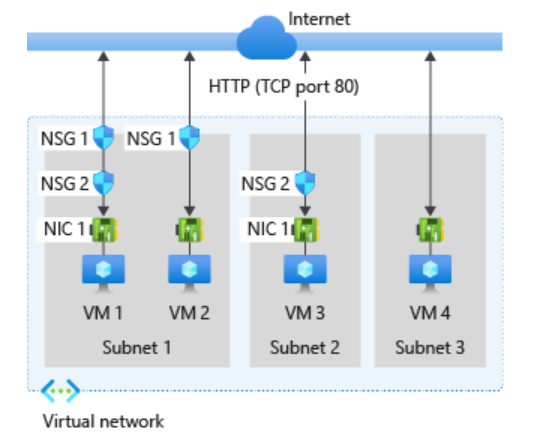
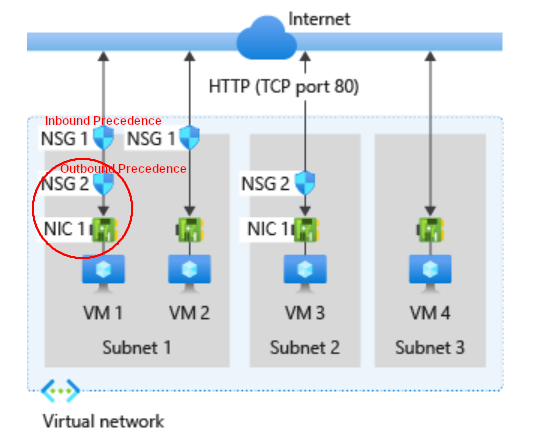
minor change

diff --git a/D338_Cloud_Platform_Solutions_AZ-104/Azure_Administrator_AZ-104.md b/D338_Cloud_Platform_Solutions_AZ-104/Azure_Administrator_AZ-104.md
@@ -692,11 +692,58 @@ az vm open-port --port 80 --resource-group "[sandbox resource group name]" --nam
 
 ## Azure Networks and Network Security Groups
 
-- **vNet**
-  - VPN network. provide logical isolation and protection. IP range once chosen, cannot be changed.
-  - If **no security group** is applied, then **all** traffic is **allowed** by Azure.
-  - Azure blocks SMTP (Email port 25) outbound.
-  - link virtual networks with an on-premises IT infrastructure to create hybrid or cross-premises solution.
+- **Azure IP addresses**
+  - **private IP**: internal communication only. on-prem communication, use VPN Gateway or ExpressRoute.
+  - **public IP**: communicate with resources over the public internet.
+  - **static IP**: does not change. best for DNS records, TLS certs, Firewall rules based on IP range.
+  - **dynamic IP**: changes as needed. typically change when VM/service is stopped and restarted.
+- **Application Security Group**
+  - grouping VMs based on application(function). e.g. web server and database.
+  - layer 3 and 4(IP and port).
+- **Network Interface Card (NIC)**
+  - vNIC. layer 2.
+  - can have network security group applied.
+- **Network Security Group (NSGs)**
+  - enforce and control network traffic rules at the networking level.
+  - software firewall by filtering **inbound and outbound traffic**(subnet or network interface(NIC)) with **allow/deny rules**.
+  - The last rule is always a **Deny All** rule.
+  - can be applied to **subnets** and **NIC**.
+  - **Rules**
+    - default: **deny** all **inbound(except loadBalancer or VNET subnets)**. **allow** all **outbound**.
+    - without NSG, **all** traffic is allowed.
+    - rules can be overridden by **Priority** value.
+      - **priority values**: 100 - 4096. processed from low to high. first rule matches, processing stops. lower numbers are processed first, so have higher priority.
+    - default **intra-subnet** traffic(resources inside same subnet) are **allowed**.
+    - you must define an **allow rule** for both the **subnet and network interface** in the group to ensure traffic can get through.
+    - because a NIC or subnet can each have a security group:
+      - inbound: the subnet(NSG 1) rules will take precedence.
+      - outbound: the NIC(NSG 2) will take precedence.
+      - ![nsg rules](img/nsg.PNG)
+- **Load Balancer**
+  - d
+- **Application Gateway**
+  - creates hybrid cloud: on-prem can communicate with Azure VNET over internet with encrypted traffic. same as site-to-site VPN.
+  - **Azure Local Network Gateway**: the on-prem VPN device to connect to Azure VPN.
+- **ExpressRoute**
+  - connect private on-prem connection with Azure VNET. Dedicated line from connectivity provider. traffic does not traverse public internet. higher security.
+- **Peering**
+  - seamless connection of two or more VNETs. function as single VNET.
+  - managed as separate resources, but communicate as single resource.
+  - Traffic between the virtual networks is kept on the **Microsoft Azure backbone** network. No public internet, gateways, or encryption is required in the communication between the virtual networks.
+  - allow remote communication with VPN Gateway.
+  - **Regional and Global**
+    - **Regional**: VNETs in same region.
+    - **Global**: VNETS in different regions. Any Azure cloud region, China cloud region, but not Government Region.
+    - ![peering global](img/peering_global.PNG)
+- **Point-to-Site (P2S)**
+  - VPN tunnel from individual computer. no public IP address. Connects to 'VPN Gateway' on the Azure side.
+- **Private Link**
+  - Traffic between your VNET and the service travels the Microsoft backbone network. eliminates data exposure to the public internet.
+- **Service Endpoints**
+  - **service endpoint**: open internet access to **all** instances in subnet.
+  - **private endpoint**: open internet access to **specific** instance(VM).
+- **Site-to-site VPNs (S2S)**
+  - use IPSEC to provide a secure connection between your **corporate VPN Gateway** and **Azure**.
 - **Subnets and Screened Subnets (DMZ)**
   - network can be segmented into subnets to help improve security, increase performance, and make it easier to manage.
   - subnet must be specified by using **CIDR** notation.
@@ -707,49 +754,16 @@ az vm open-port --port 80 --resource-group "[sandbox resource group name]" --nam
   - **Screened Subnet (DMZ)**
     - security group applied to a subnet acts as buffer between resource and internet.
     - restrict traffic flow.
-- **Azure IP addresses**
-  - **private IP**: communicate on-prem with cloud through VPN Gateway or ExpressRoute.
-  - **public IP**: communicate with resources over the public internet.
-  - **static IP**: does not change. best for DNS records, TLS certs, Firewall rules based on IP range.
-  - **dynamic IP**: changes as needed. typically change when VM/service is stopped and restarted.
-- **Network Interface Card (NIC)**
-  - vNIC. layer 2.
-  - can have network security group applied.
-- **Network Security Group (NSGs)**
-  - enforce and control network traffic rules at the networking level.
-  - software firewall by filtering **inbound and outbound traffic**(subnet or network interface(NIC)) with **allow/deny rules**.
-  - The last rule is always a **Deny All** rule.
-  - can be applied to subnets and NIC.
-  - **Rules**
-    - default: **deny** all **inbound(except loadBalancer or VNET subnets)**. **allow** all **outbound**.
-    - without NSG, **all** traffic is allowed.
-    - rules can be overridden by higher 'Priority' value.
-    - because a NIC or subnet can each have a security group:
-      - inbound: the subnet(NSG 1) rules will take precedence if rule Priority tie.
-      - outbound: the NIC(NSG 2) will take precedence if rule Priority tie.
-      - ![nsg rules](img/nsg.PNG)
-- **Load Balancer**
-  - d
-- **Application Gateway**
-  - hybrid cloud. on-prem to Azure VNET encrypted traffic. over internet. site-to-site VPN.
-  - **Azure Local Network Gateway**: the on-prem VPN device to connect to Azure VPN.
-- **ExpressRoute**
-  - connect private on-prem connection with Azure VNET. Dedicated line from connectivity provider. traffic does not traverse public internet. higher security.
-- **Peering**
-  - seamless connection of two or more VNETs. function as single VNET.
-- **Point-to-Site (P2S)**
-  - VPN tunnel from individual computer. no public IP address. Connects to 'VPN Gateway' on the Azure side.
-- **Private Link**
-  - Traffic between your VNET and the service travels the Microsoft backbone network. eliminates data exposure to the public internet.
-- **Service Endpoints**
-  - **service endpoint**: open internet access to **all** instances in subnet.
-  - **private endpoint**: open internet access to **specific** instance(VM).
-- **Site-to-site VPNs (S2S)**
-  - use IPSEC to provide a secure connection between your **corporate VPN Gateway** and **Azure**.
 - **Traffic Manager Profile**
 - **Virtual Network Gateway**
 - **Virtual WAN**
+- **VNET**
+  - VPN network. provide logical isolation and protection. IP range once chosen, cannot be changed.
+  - If **no security group** is applied, then **all** traffic is **allowed** by Azure.
+  - Azure blocks SMTP (Email port 25) outbound.
+  - link virtual networks with an on-premises IT infrastructure to create hybrid or cross-premises solution.
 - **VPN Gateway**
-  - Azure service that allows you to securely encrypt traffic between VPN and on-prem, or point-to-site(P2S) using IPSEC communications.
+  - Azure service that allows you to securely encrypt traffic between VPN and on-prem(site-to-site), or point-to-site(P2S) using IPSEC encrypted communications.
   - must have dedicated subnet for VPN Gateway.
+  - VNET can only have **one** VPN Gateway.
   - ![vpn gateway](img/vpn_gateway.PNG)

diff --git a/D306_Azure_Developer_Associate_AZ-204/Azurre_Developer_AZ-204.md b/D306_Azure_Developer_Associate_AZ-204/Azurre_Developer_AZ-204.md
@@ -1,3 +1,7 @@
 # Azure Developer Associate AZ-204
 
-- <https://github.com/arvigeus/az-204>
+## Tips
+
+- **Reddit**
+  - <https://www.reddit.com/r/AzureCertification/comments/1difpww/az204/>
+    - <https://github.com/arvigeus/az-204>
